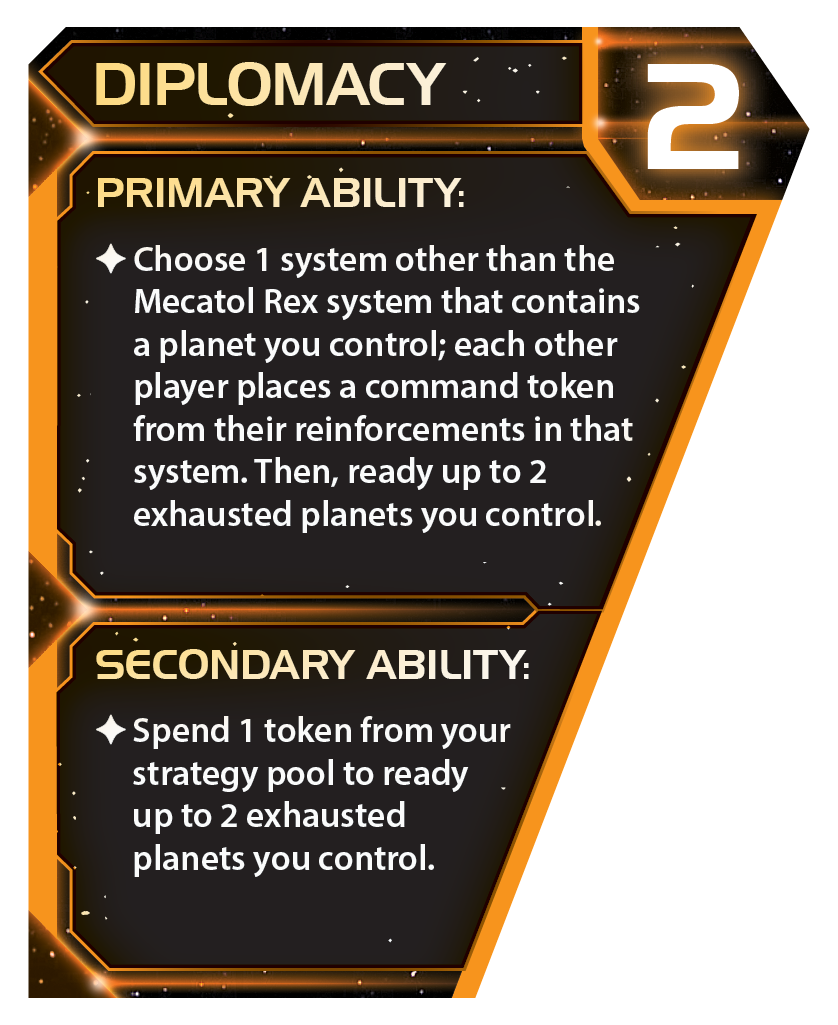
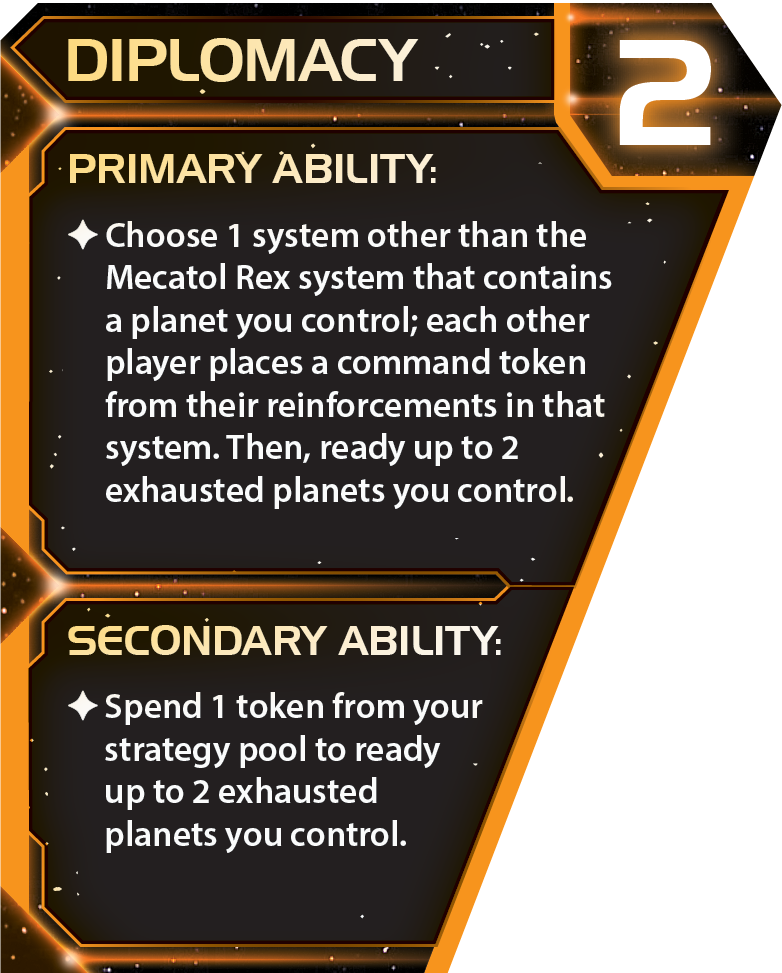
add flip-card component

diff --git a/src/components/cards/FlipCard.vue b/src/components/cards/FlipCard.vue
@@ -1,0 +1,65 @@
+<template>
+  <div class="flip-card">
+    <div class="flip-card-inner">
+      <div class="flip-card-front">
+        <slot name="front" />
+      </div>
+      <div class="flip-card-back">
+        <slot name="back" />
+      </div>
+    </div>
+  </div>
+</template>
+
+<script lang="ts">
+// code found at: https://www.w3schools.com/howto/howto_css_flip_card.asp
+export default {
+  name: 'FlipCard',
+}
+</script>
+
+<style scoped>
+/* The flip card container - set the width and height to whatever you want. We have added the border property to demonstrate that the flip itself goes out of the box on hover (remove perspective if you don't want the 3D effect */
+.flip-card {
+  background-color: transparent;
+  /*width: 200px;*/
+  /*height: 300px;*/
+  perspective: 1000px;
+}
+
+/* This container is needed to position the front and back side */
+.flip-card-inner {
+  position: relative;
+  width: 100%;
+  height: 100%;
+  text-align: center;
+  transition: transform 0.8s;
+  transform-style: preserve-3d;
+}
+
+/* Do an horizontal flip when you move the mouse over the flip box container */
+.flip-card:hover .flip-card-inner {
+  transform: rotateY(180deg);
+}
+
+/* Position the front and back side */
+.flip-card-front,
+.flip-card-back {
+  position: absolute;
+  width: 100%;
+  height: 100%;
+  -webkit-backface-visibility: hidden; /* Safari */
+  backface-visibility: hidden;
+}
+
+/* Style the front side (fallback if image is missing) */
+.flip-card-front {
+  color: black;
+}
+
+/* Style the back side */
+.flip-card-back {
+  color: white;
+  transform: rotateY(180deg);
+}
+</style>

diff --git a/src/views/HomeView.vue b/src/views/HomeView.vue
@@ -9,12 +9,21 @@
   <br />
   <strategy-selection-overlay />
 
+  <flip-card class="ma-2" style="width: 24vw; height: 42vh">
+    <template v-slot:front>
+      <v-img src="/img/strategy/2.png" />
+    </template>
+    <template v-slot:back>
+      <v-img src="/img/strategy/2-back.png" />
+    </template>
+  </flip-card>
+
   <v-overlay width="100vw">
     <template v-slot:activator="{ isActive, props }">
       <victory-point-tracker v-bind="props" />
     </template>
     <v-row>
-      <v-col cols="2" v-for="i in 5">
+      <v-col cols="2" v-for="_ in 5">
         <ti-card
           type="stage1"
           title="Expand Borders"
@@ -24,7 +33,7 @@
       </v-col>
     </v-row>
     <v-row>
-      <v-col cols="2" v-for="i in 5">
+      <v-col cols="2" v-for="_ in 5">
         <ti-card
           type="stage2"
           title="Galvanize the People"
@@ -93,10 +102,11 @@ import TiCard from '../components/cards/TiCard.vue'
 import HandCards from '../components/cards/HandCards.vue'
 import VictoryPointTracker from '@/components/cards/VictoryPointTracker.vue'
 import StrategySelectionOverlay from '../components/overlays/StrategySelectionOverlay.vue'
+import FlipCard from '../components/cards/FlipCard.vue'
 
 export default defineComponent({
   name: 'HomeView',
-  components: { StrategySelectionOverlay, TiCard, VictoryPointTracker, HandCards },
+  components: { FlipCard, StrategySelectionOverlay, TiCard, VictoryPointTracker, HandCards },
   setup() {
     const lobbyStore = useLobbyStore()
     return {
